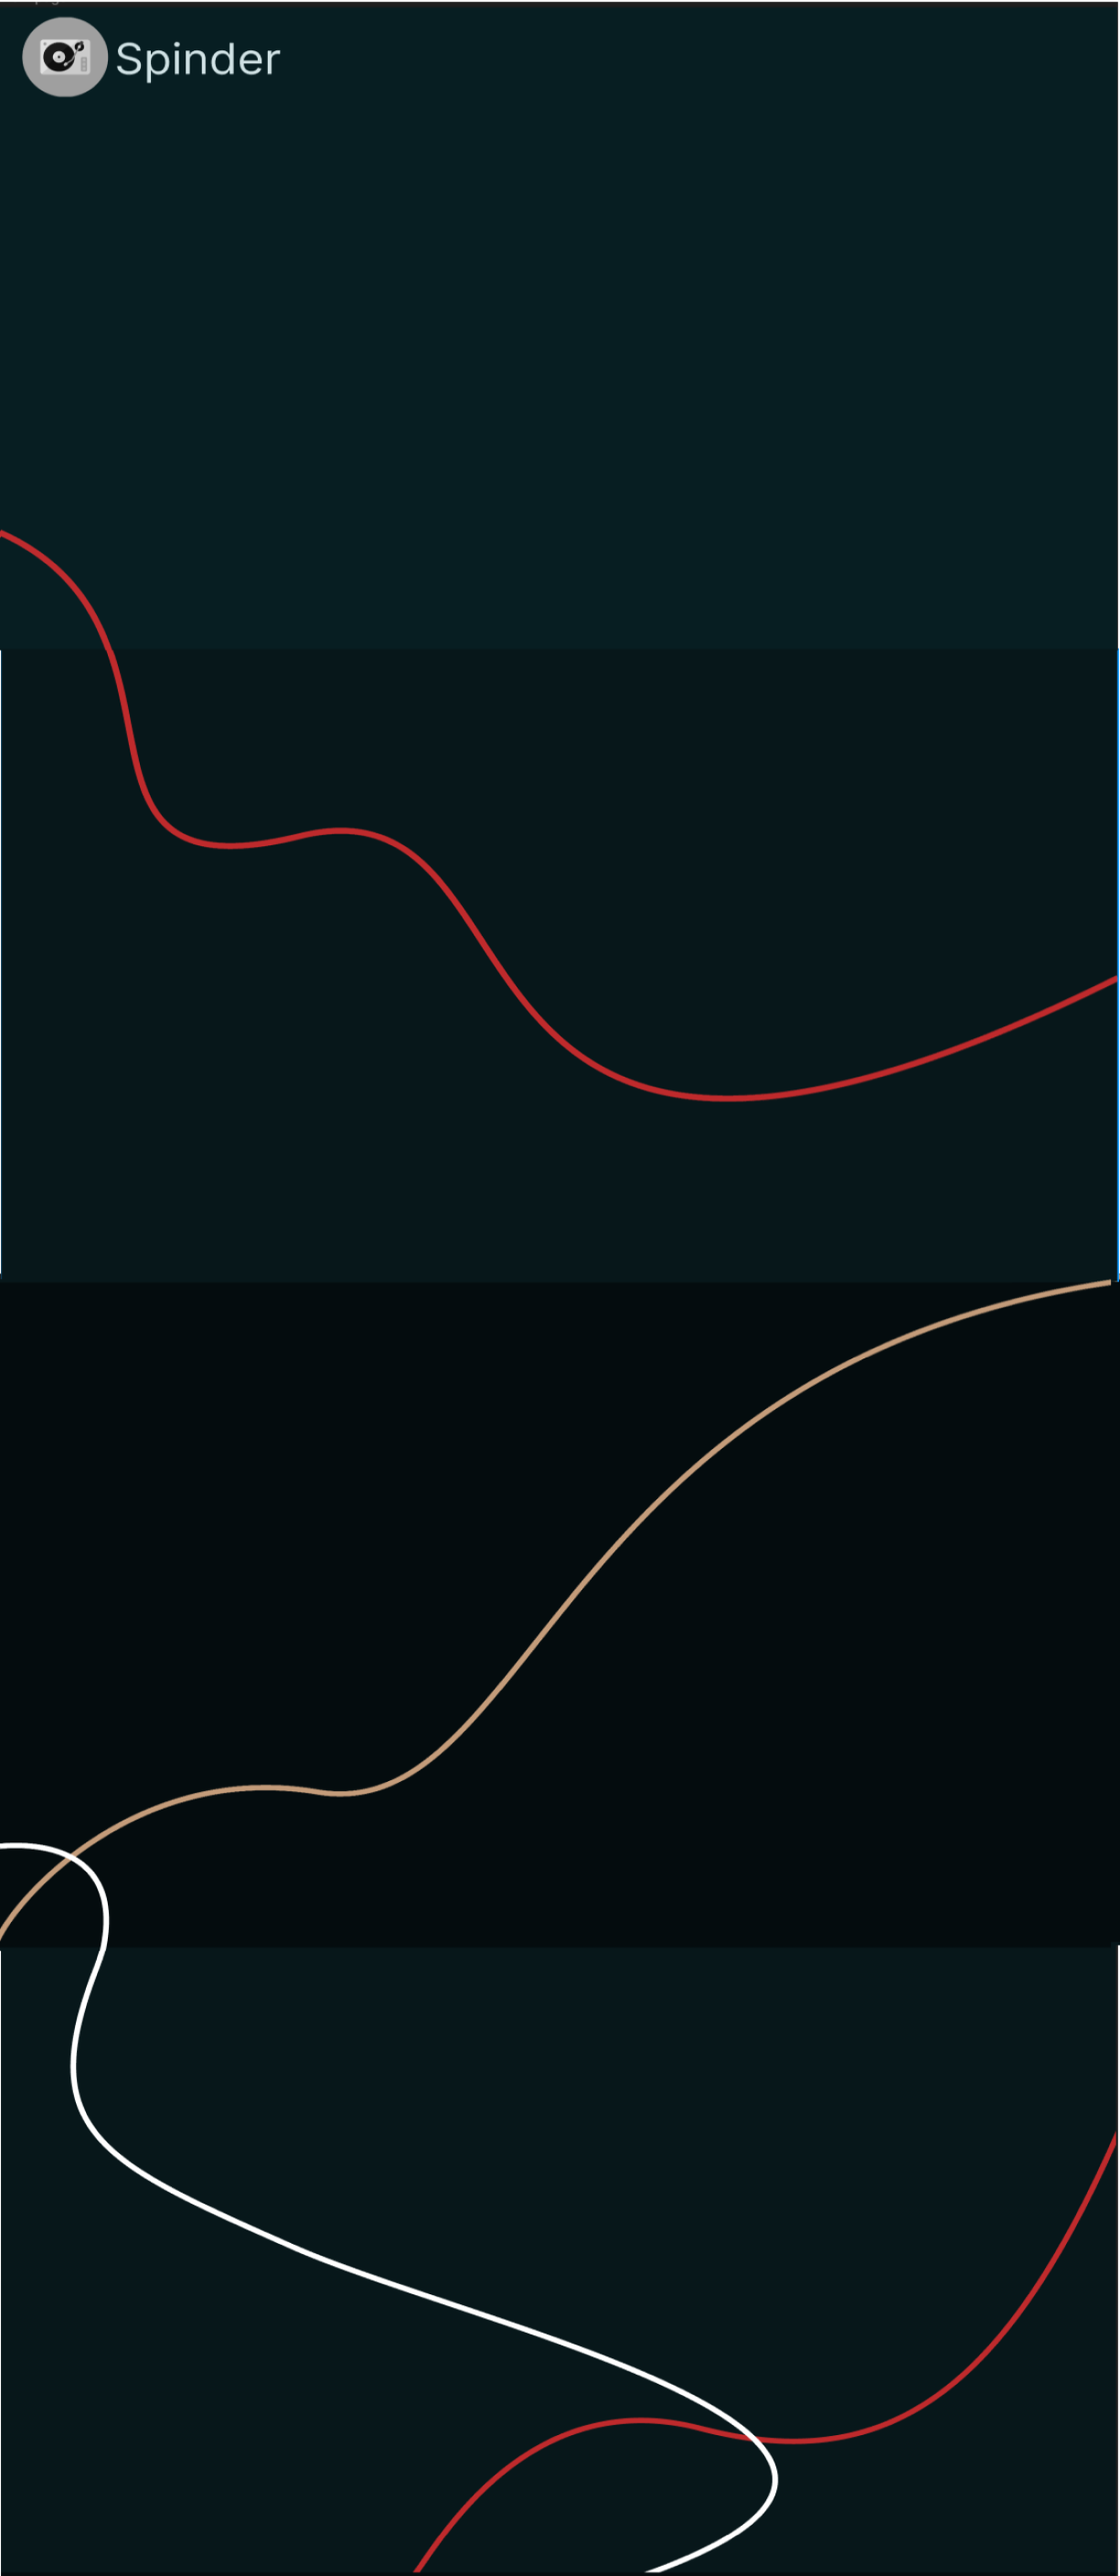
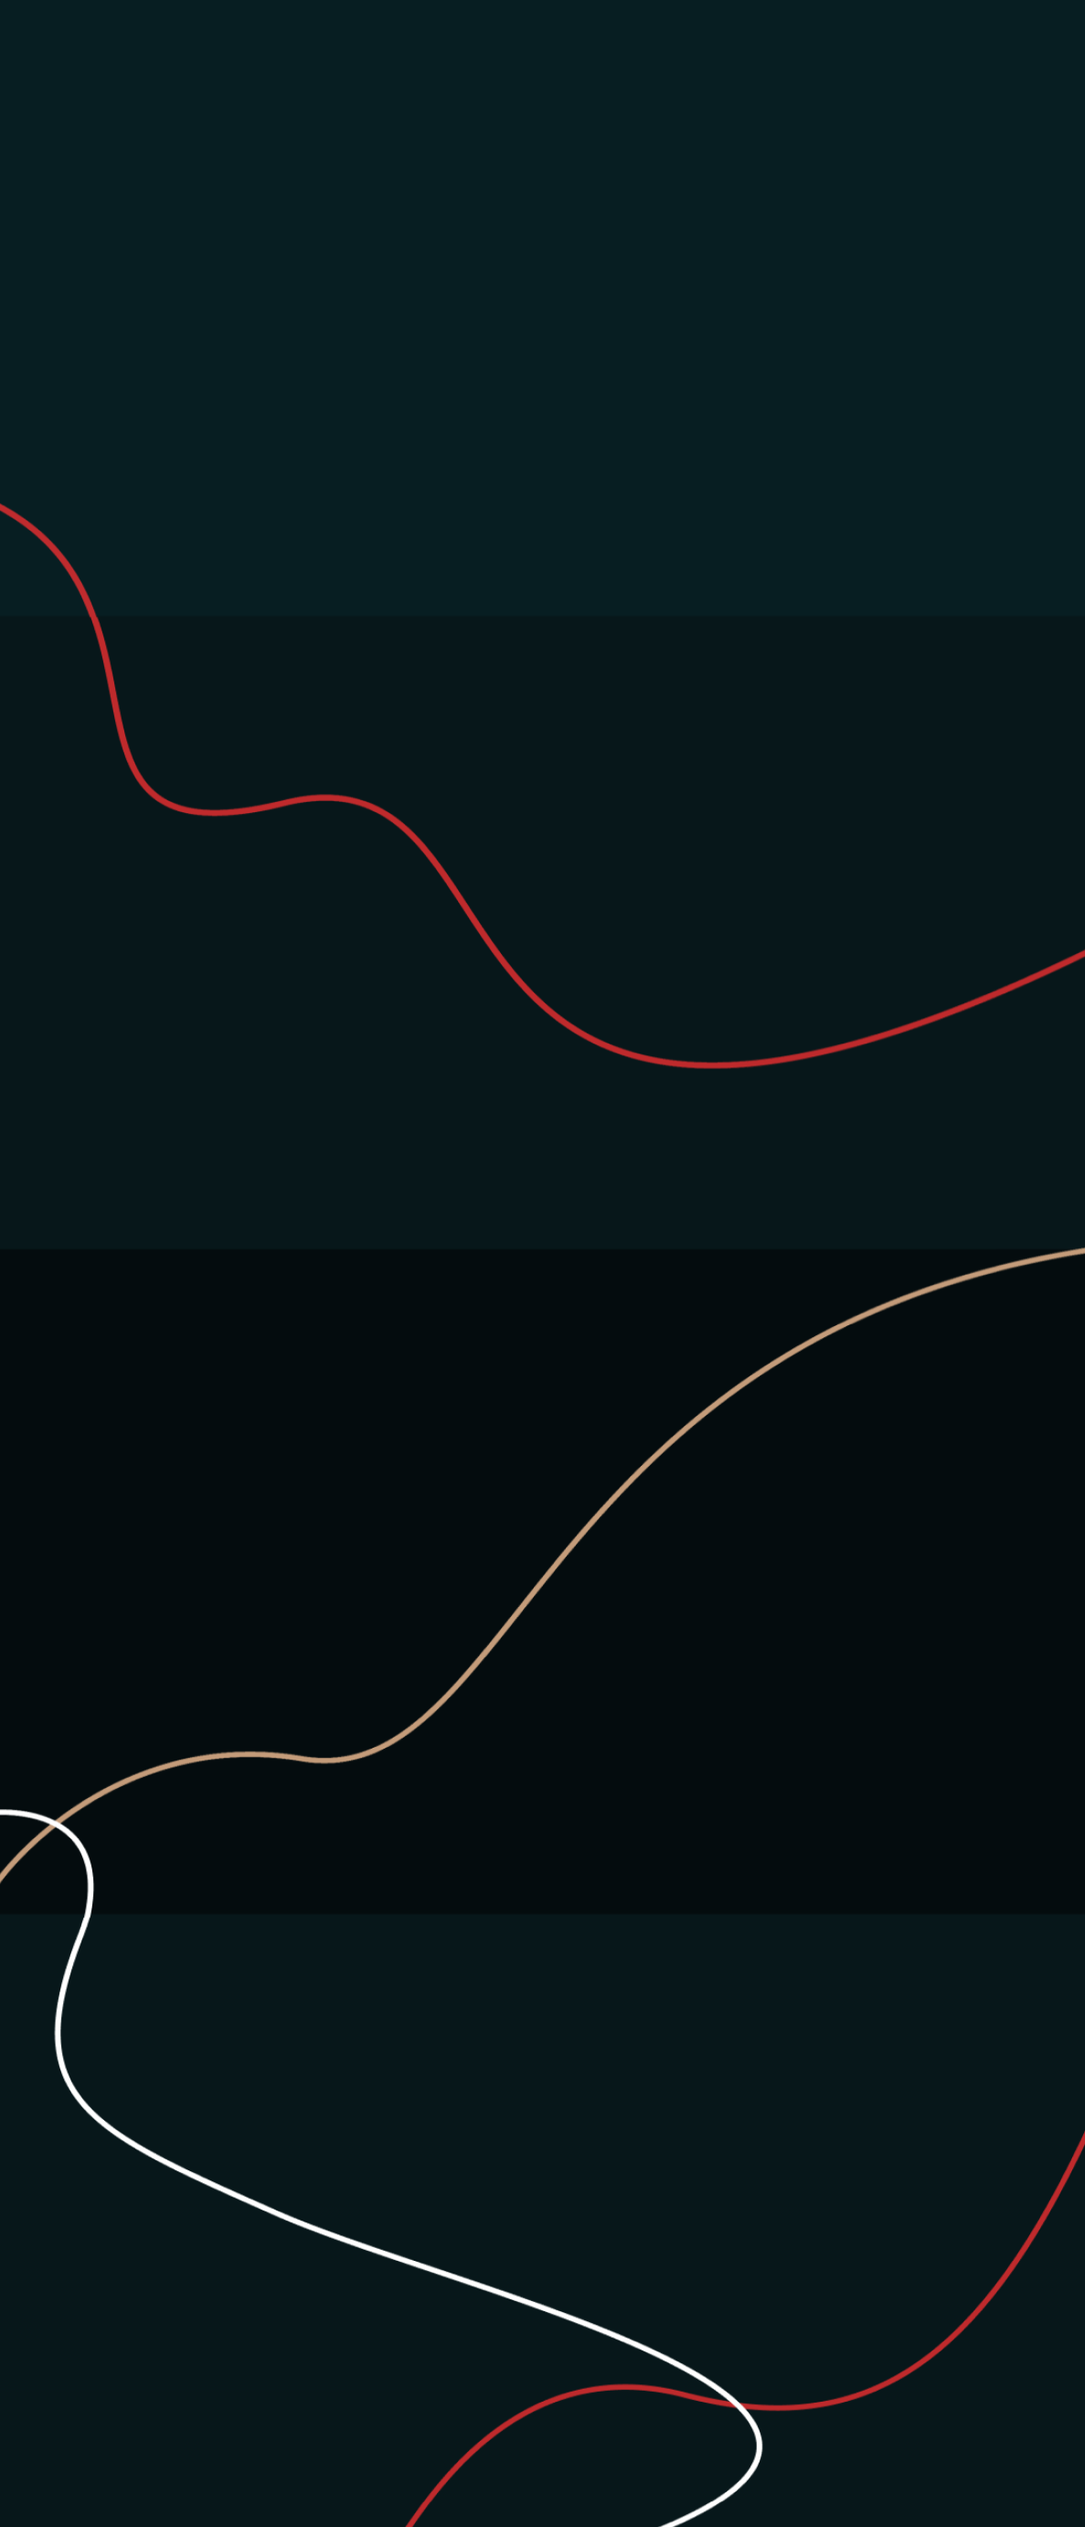
ser om det funker

diff --git a/src/prototypes/css/landing-page.css b/src/prototypes/css/landing-page.css
@@ -10,6 +10,10 @@ footer {
 
 body {
   margin: 0%;
+  background-image: url(../img/Landing-background2.png);
+  background-size: cover;
+  background-position: center;
+  background-repeat: no-repeat;
 }
 
 p {
@@ -69,7 +73,7 @@ a {
 }
 
 #main {
-  background-color: #071e22;
+  /* background-color: #071e22; */
   padding-bottom: 5%;
 }
 
@@ -98,9 +102,10 @@ a {
 
 /*phones image*/
 #main > .flex > #phones > img {
-  padding: 25vh 13vh 19vh 25vh;
+  padding: 16vh 13vh 19vh 25vh;
 }
 
+/* slogan */
 #main > .flex > #slogan {
   margin-right: 15vh;
   padding-bottom: 20vh;
@@ -132,9 +137,9 @@ a {
   margin: 0%;
 }
 
-#swipe {
+/* #swipe {
   background-color: #07171a;
-}
+} */
 /*Swipe header*/
 #swipe > div > h1 {
   padding-right: 70vh;
@@ -152,9 +157,9 @@ a {
   margin: 0%;
 }
 
-#create {
+/* #create {
   background-color: #040c0e;
-}
+} */
 
 /*create header*/
 #create > .flex > #createText > h1 {
@@ -173,9 +178,9 @@ a {
   margin: 0%;
 }
 
-#discover {
+/* #discover {
   background-color: #07171a;
-}
+} */
 
 #discover > h1 {
   padding-left: 70vh;

diff --git a/src/prototypes/landing page.html b/src/prototypes/landing page.html
@@ -95,8 +95,7 @@
     </div>
   </body>
 
-  <footer>
-    <div>
+  <footer class="m-null pb-10">
       <p>jfdjs</p>
     </div>
   </footer>
